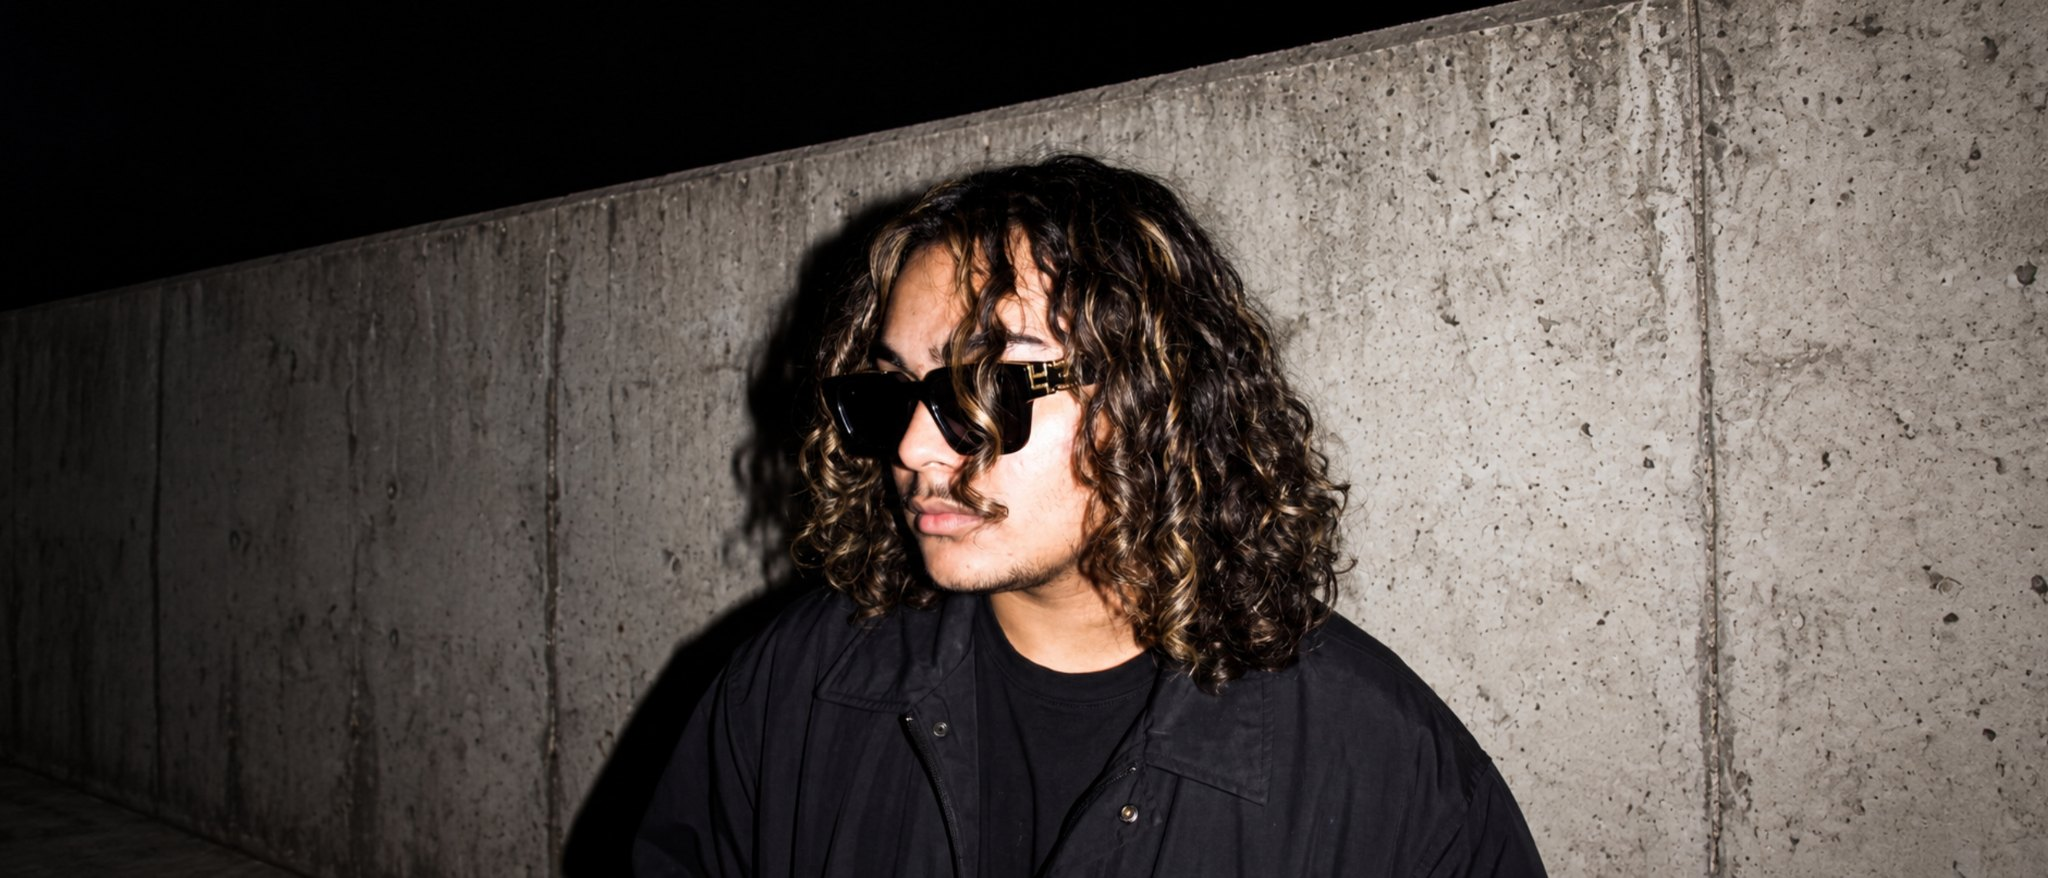
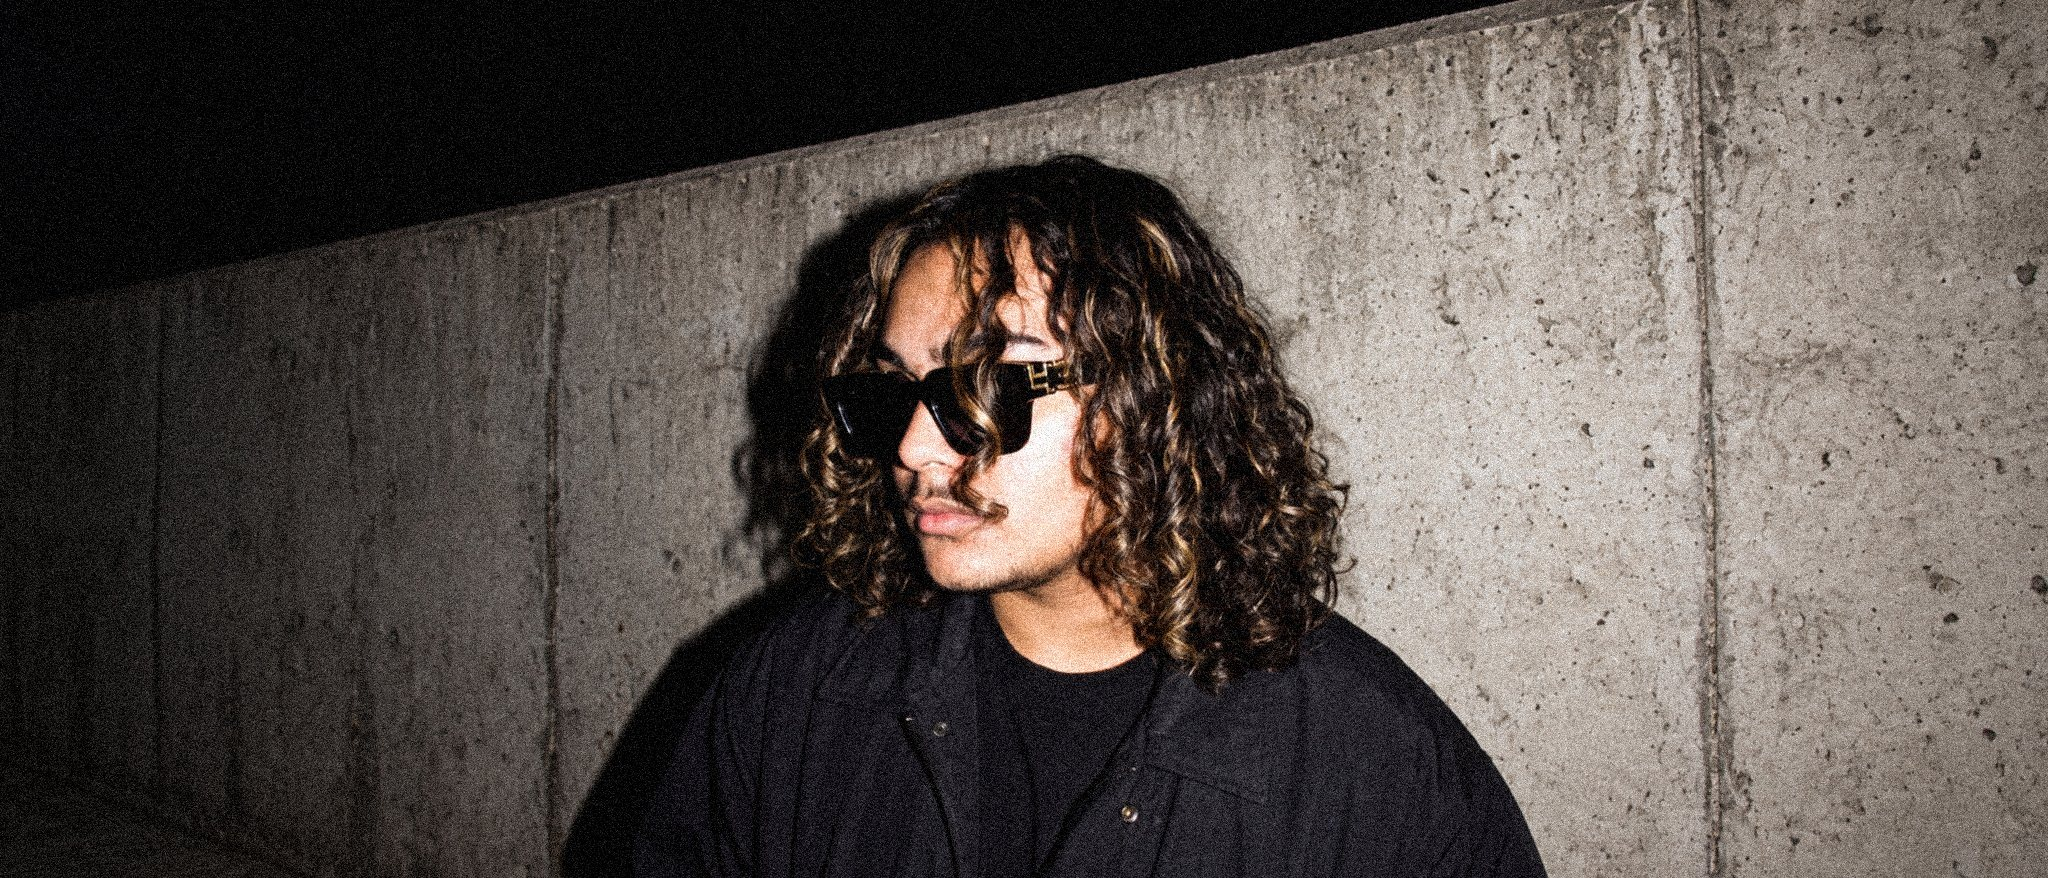
Match front hero photo to the approved 6.3% monochrome grain

Changed region(s): [[0.0625, 0.0, 1.0, 1.0], [0.375, 0.9533, 0.4062, 0.9841]]

diff --git a/index.html b/index.html
@@ -7,7 +7,7 @@
 <meta name="theme-color" content="#0A0A09">
 <meta name="description" content="Official site of PRXD.JAY, pronounced Prodigy. Stream PRXDIGY VXL.1, watch official videos, and get in touch.">
 <title>PRXD.JAY (Prodigy) | Official Music &amp; Videos</title>
-<meta name="prxdjay-release" content="artist-rev3-20261012">
+<meta name="prxdjay-release" content="artist-rev3-20261012-hero-grain">
 <link rel="canonical" href="https://prxdjay.com/">
 <link rel="icon" href="/assets/img/favicon.svg" type="image/svg+xml">
 <link rel="apple-touch-icon" href="/assets/img/apple-touch-icon.png">
@@ -60,7 +60,7 @@
   <section class="opening" id="top" aria-labelledby="hero-name">
     <div class="opening__stage" id="stageOp">
       <div class="op-portrait" id="opPortrait">
-        <img src="/assets/artist/photos/concrete-hero.jpg" width="2048" height="878" alt="PRXD. JAY in square sunglasses and a black jacket, lit by camera flash against a concrete wall at night." fetchpriority="high" id="heroImg">
+        <img src="/assets/artist/photos/concrete-hero.jpg?v=44" width="2048" height="878" alt="PRXD. JAY in square sunglasses and a black jacket, lit by camera flash against a concrete wall at night." fetchpriority="high" id="heroImg">
         <div class="op-shade" id="opShade"></div>
         <div class="op-dim" id="opDim"></div>
       </div>

diff --git a/tests/artist.test.js b/tests/artist.test.js
@@ -27,7 +27,7 @@ const album = "https://open.spotify.com/album/7reVqpxCzqE0df6fGIobVw";
 const identityPath = "assets/identity/prxd-jay-artist-photo.jpg";
 const identityUrl = `https://prxdjay.com/${identityPath}`;
 
-// Fingerprints of the approved revision 3 assets. An intentional replacement
+// Fingerprints of revision 3 assets, including the requested hero grain. An intentional replacement
 // requires reviewing the new asset before updating its fingerprint here.
 const approvedAssets = {
   "assets/artist/clip-posters/findyou.jpg": "af248554df5738f3ed20abc29a122ec9a0f8f357",
@@ -40,7 +40,7 @@ const approvedAssets = {
   "assets/artist/fonts/archivo.woff2": "e2448d0561ffdb0b0974d063a7cdbb712f41ad49",
   "assets/artist/fonts/martian.woff2": "397689377e7d2ddbf65580bc598942bfb222f091",
   "assets/artist/photos/concrete-graded-crop.jpg": "5bd2a4971e4cabcff1cf7ed6920935ab03feb4ae",
-  "assets/artist/photos/concrete-hero.jpg": "a85d278552a994aade0e57eafa9f0dd5ac3ee499",
+  "assets/artist/photos/concrete-hero.jpg": "305718289c11d846b79656772ae87629dc7e0812",
   "assets/artist/photos/fence_grain-6.3pct.jpg": "277671a4d5d9dc279754c3079ccde95c6ebe7f62",
   "assets/artist/photos/prxdigy-vxl1-cover.jpg": "6301c64126933e909d90d16cf417be950e16bd4f",
 };
